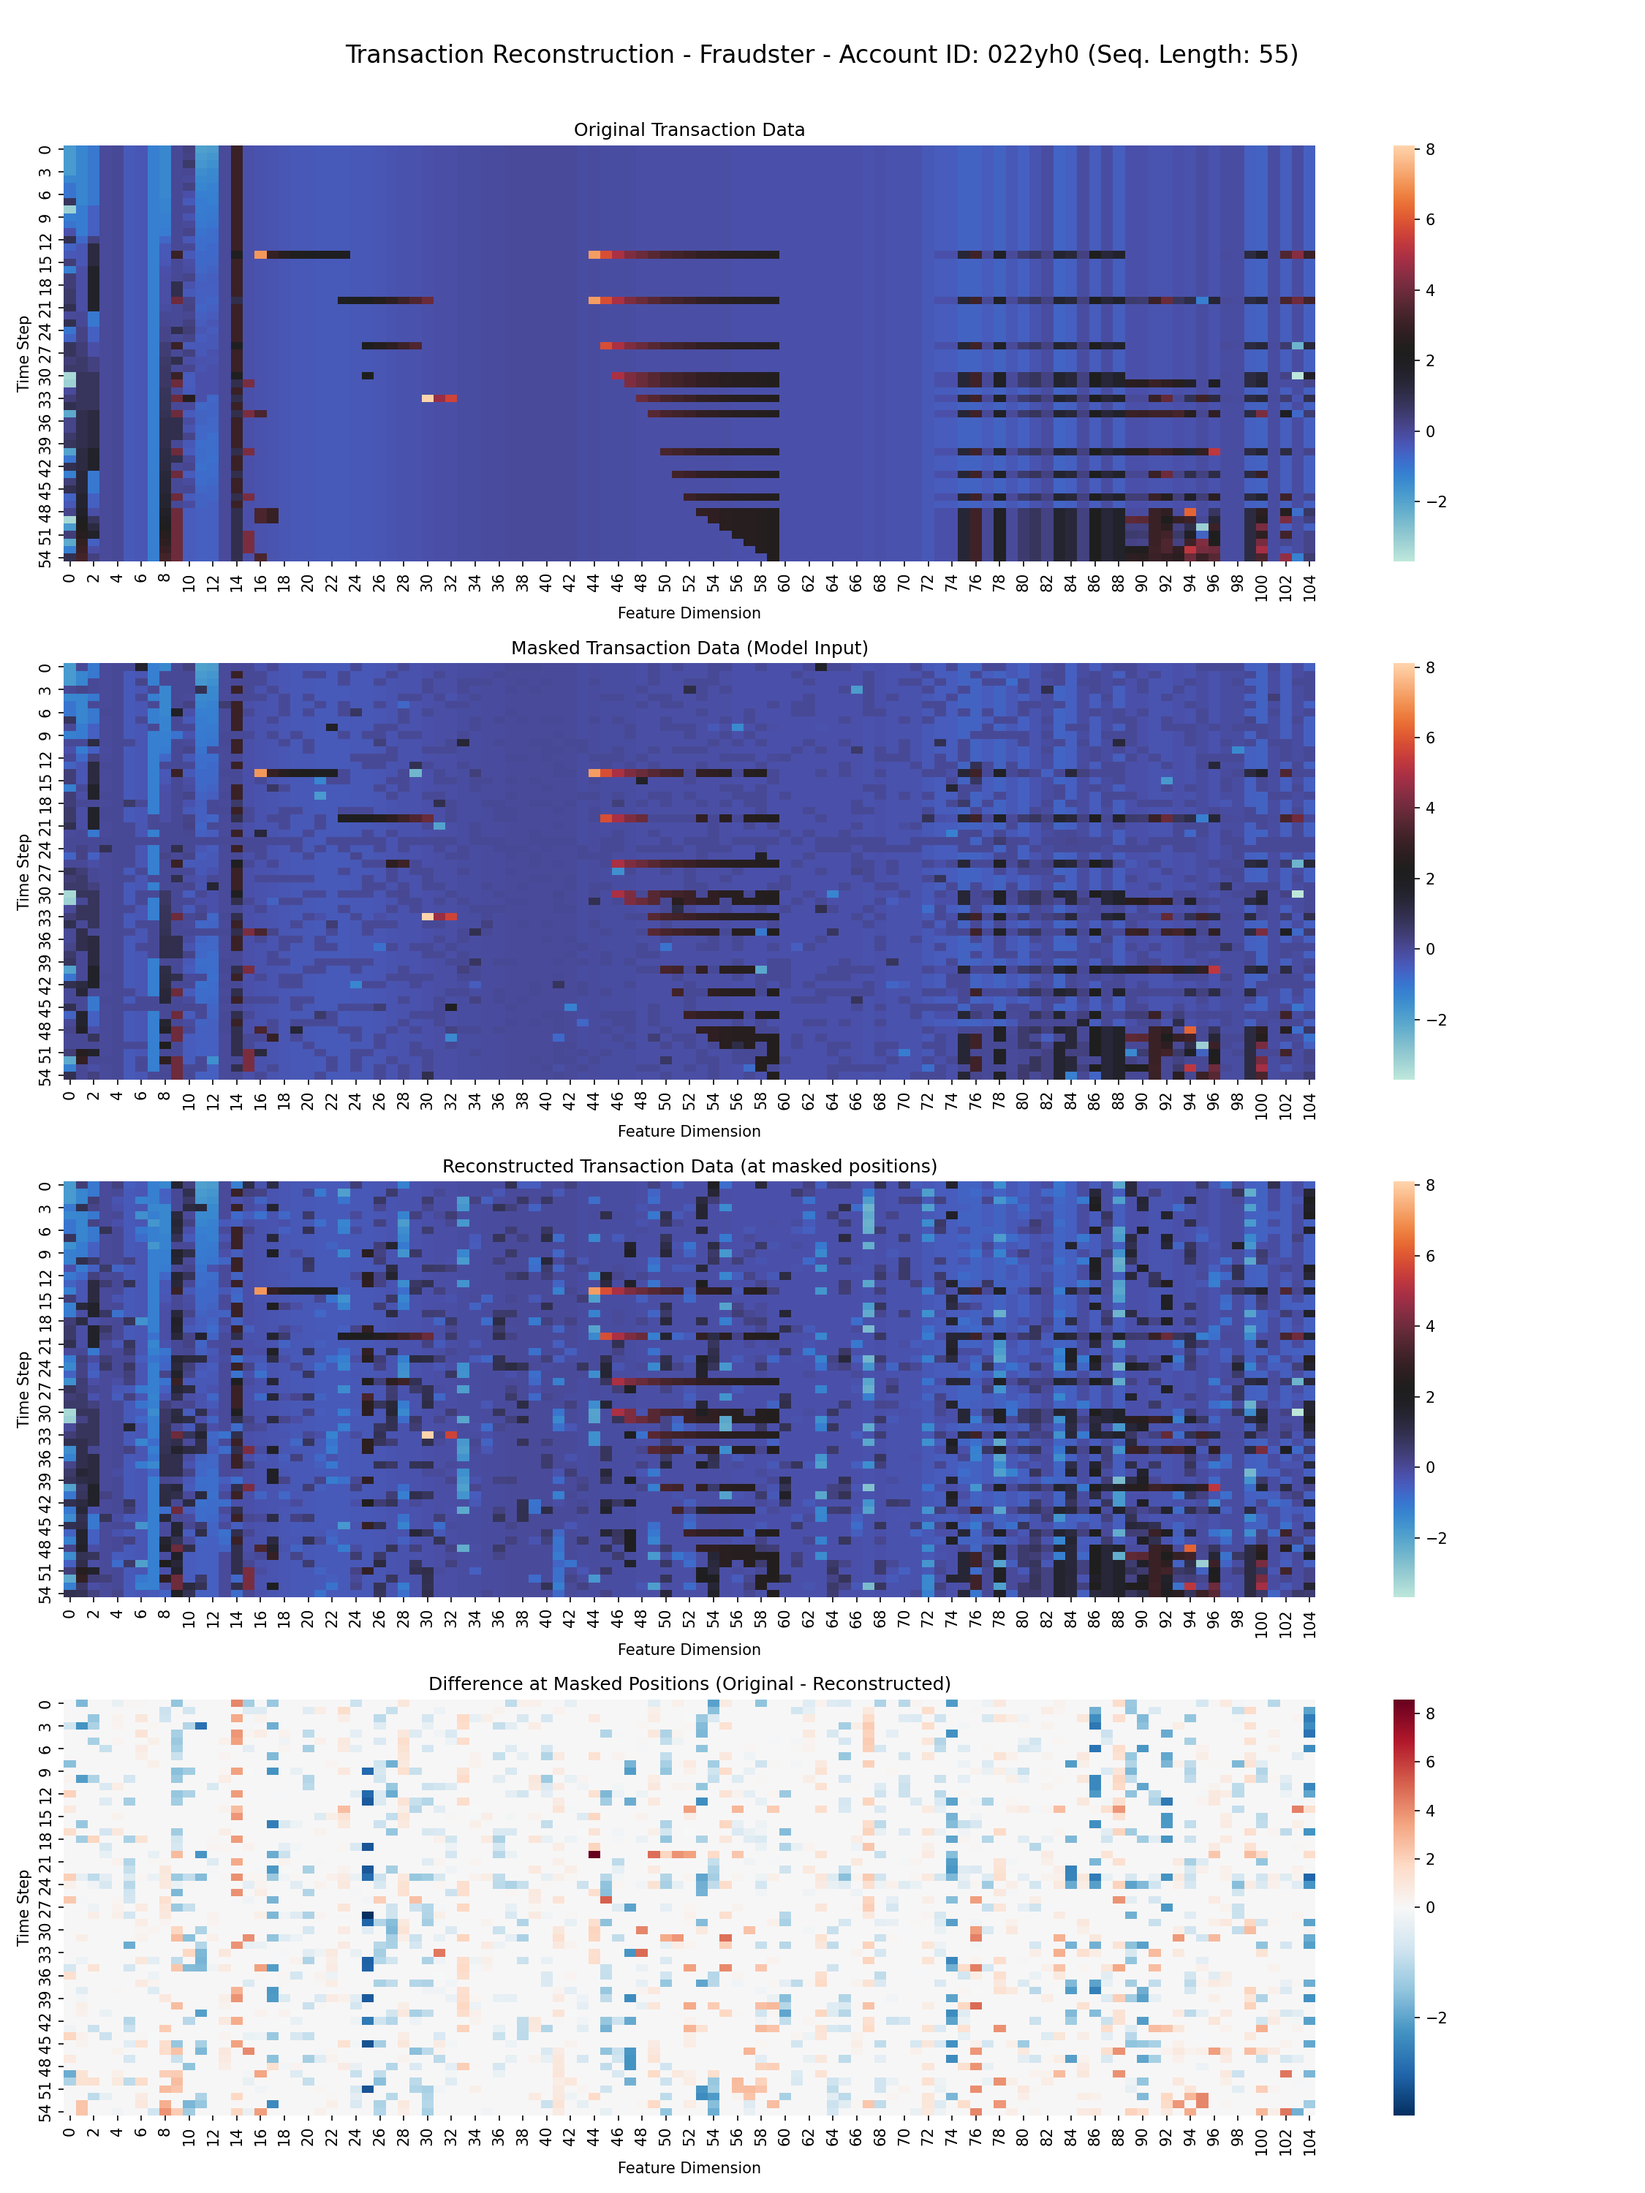
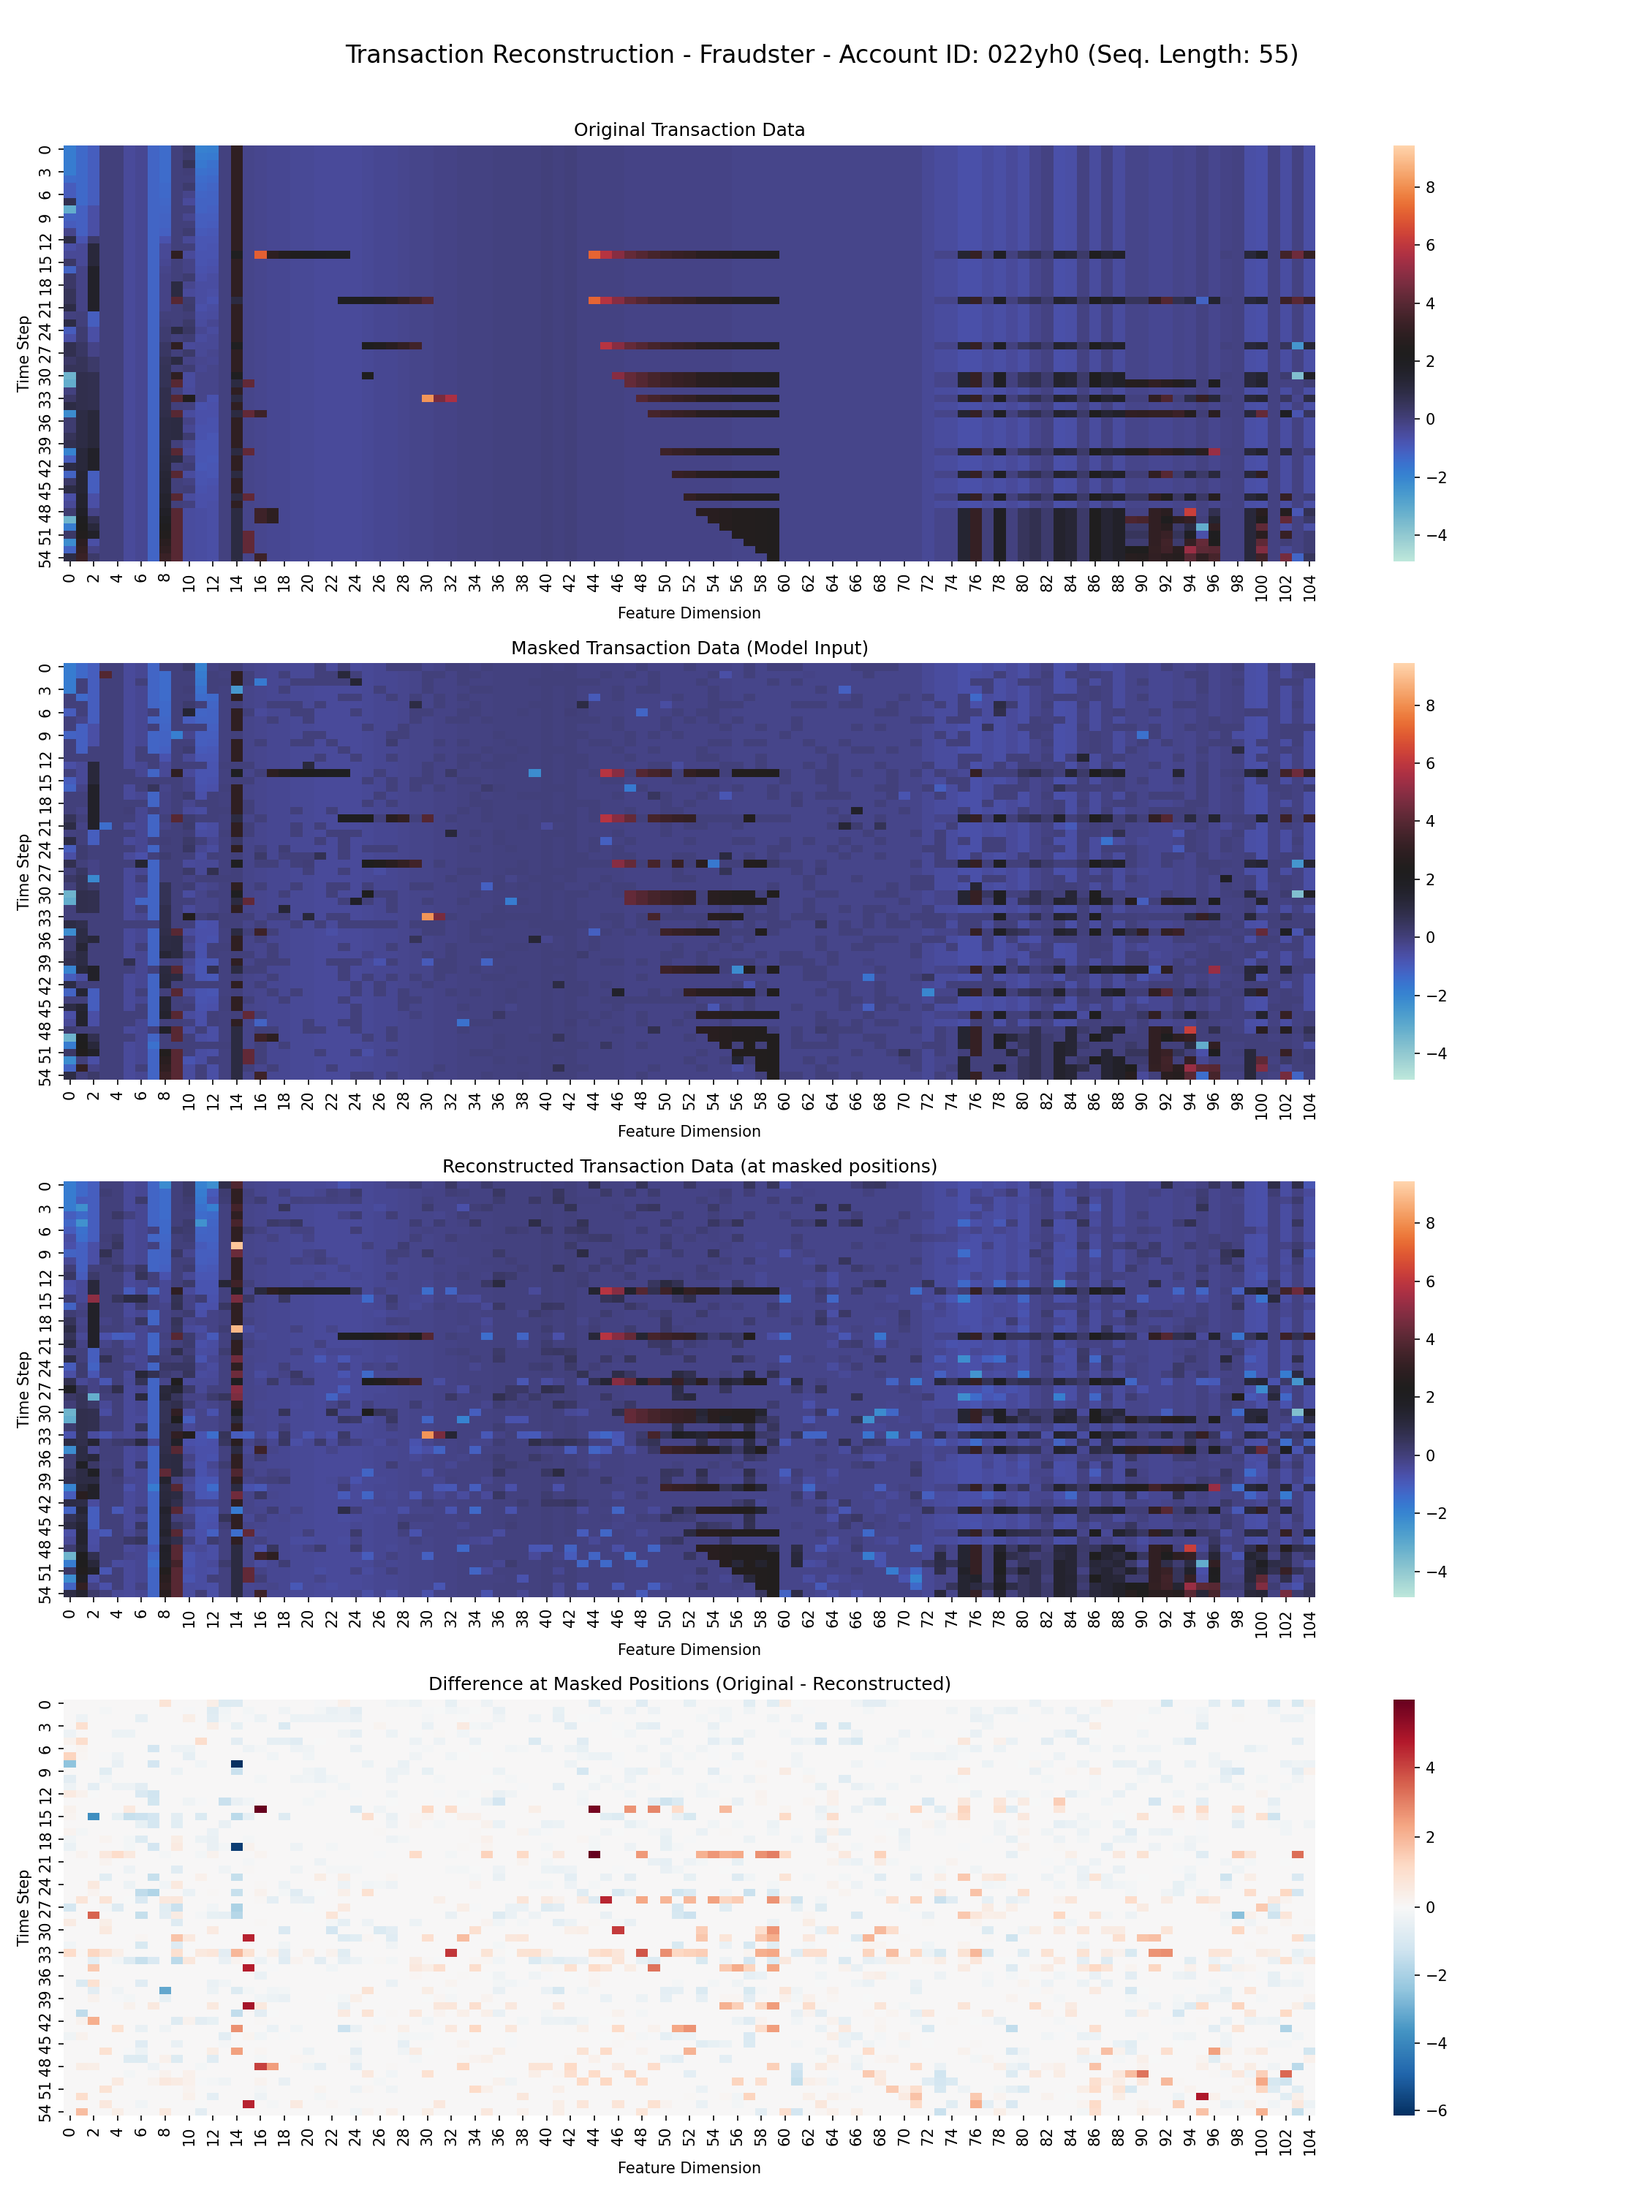
wip and switched to mixed train / val sets

diff --git a/models/features/ssl/train_bert_mlm.py b/models/features/ssl/train_bert_mlm.py
@@ -2,12 +2,14 @@ import os
 import click
 import torch
 import pytorch_lightning as pl
-from torch.utils.data import DataLoader
+from torch.utils.data import DataLoader, Subset
 from pytorch_lightning.callbacks import ModelCheckpoint, EarlyStopping
 from pytorch_lightning.loggers import TensorBoardLogger
+from sklearn.model_selection import train_test_split
+import numpy as np
 
 from bert import TransactionBERTModel
-from dataloader import prepare_dataset, load_train_test, load_val
+from dataloader import prepare_dataset, load_all
 
 
 @click.command()
@@ -18,22 +20,24 @@ from dataloader import prepare_dataset, load_train_test, load_val
 @click.option("--output_dir", default="./saved_models/transaction_bert", type=str, help="Output directory for models")
 
 # Training parameters
+# while a larger batch size like 48 would fit, it for some reason just takes ages in training. i'm assuming it fits in vram, but the optimizations for a smaller set are better
 @click.option("--batch_size", default=24, type=int, help="Batch size for training")
 @click.option("--num_train_epochs", default=15, type=int, help="Number of training epochs")
+@click.option("--val_every_epoch", default=3, type=int, help="Number of training epochs after which to run validation")
 @click.option("--gradient_accumulation_steps", default=1, type=int, help="Gradient accumulation steps")
 @click.option("--fp16", is_flag=True, help="Use 16-bit precision")
 
-@click.option("--out_name", default="final-model.pt", type=str, help="Name of the final model file")
+@click.option("--out_name", default="final-model.ckpt", type=str, help="Name of the final model file")
 @click.option("--continue_from_checkpoint", default=None, type=str, help="Path to a checkpoint to continue training")
 @click.option("--fine_tune_ffn", is_flag=True, default=False, help="Fine-tune the feed-forward network")
 
 # Other parameters
 @click.option("--seed", default=42, type=int, help="Random seed")
-@click.option("--num_workers", default=5, type=int, help="Number of workers for data loading")
+@click.option("--num_workers", default=4, type=int, help="Number of workers for data loading")
 @click.option("--patience", default=3, type=int, help="Early stopping patience")
 @click.option("--dry_run", is_flag=True, help="Perform a dry run (setup but no training)")
 
-def main(data_version, output_dir, batch_size, num_train_epochs,
+def main(data_version, output_dir, batch_size, num_train_epochs, val_every_epoch,
          gradient_accumulation_steps, fp16, out_name, continue_from_checkpoint, fine_tune_ffn, seed, num_workers, patience, dry_run):
     
     # Create output directory if it doesn't exist
@@ -45,13 +49,29 @@ def main(data_version, output_dir, batch_size, num_train_epochs,
     
     # Prepare datasets
     print("Loading and preparing datasets...")
-    # train_dataset, val_dataset = prepare_datasets(data_version)
-    # train_dataset, val_dataset, test_dataset = prepare_datasets(data_version)
-    train_dataset = prepare_dataset(data_version, load_train_test)
-    val_dataset = prepare_dataset(data_version, load_val)
+    dataset = prepare_dataset(data_version, load_all)
+    
+    # Get all labels to create a stratified split
+    all_labels = dataset.get_fraud_labels_idx()
+    
+    # Create stratified train/validation indices
+    indices = np.arange(len(dataset))
+    train_indices, val_indices = train_test_split(
+        indices, 
+        test_size=0.2,  # 20% for validation
+        random_state=seed,
+        stratify=all_labels  # This ensures the split preserves the class distribution
+    )
+    
+    # Create Subset objects
+    train_dataset = Subset(dataset, train_indices)
+    val_dataset = Subset(dataset, val_indices)
+    
+    print(f"Dataset split: {len(train_dataset)} training samples, {len(val_dataset)} validation samples")
+    print(f"Stratified by fraudster class to maintain class distribution in both sets")
     
     # Get feature dimension from dataset
-    feature_dim = train_dataset.feature_dim
+    feature_dim = dataset.feature_dim
     print(f"Feature dimension: {feature_dim}")
     
     # Create data loaders
@@ -61,7 +81,8 @@ def main(data_version, output_dir, batch_size, num_train_epochs,
         batch_size=batch_size,
         shuffle=True,
         num_workers=num_workers,
-        pin_memory=True
+        pin_memory=True,
+        drop_last=True
     )
     
     val_loader = DataLoader(
@@ -69,7 +90,8 @@ def main(data_version, output_dir, batch_size, num_train_epochs,
         batch_size=batch_size,
         shuffle=False,
         num_workers=num_workers,
-        pin_memory=True
+        pin_memory=True,
+        drop_last=True
     )
     
     # Initialize model
@@ -78,6 +100,16 @@ def main(data_version, output_dir, batch_size, num_train_epochs,
         feature_dim=feature_dim,
         fine_tune_ffn=fine_tune_ffn
     )
+    
+    # Apply torch.compile if available (PyTorch 2.0+)
+    # This is the preferred way to compile models in Lightning
+    if hasattr(torch, 'compile'):
+        try:
+            print("Compiling model with torch.compile()...")
+            model = torch.compile(model, mode="reduce-overhead")
+            print("Model compiled successfully")
+        except Exception as e:
+            print(f"Model compilation failed: {e}. Training with uncompiled model.")
     
     # Setup checkpointing
     checkpoint_callback = ModelCheckpoint(
@@ -112,7 +144,7 @@ def main(data_version, output_dir, batch_size, num_train_epochs,
         precision='16-mixed',
         accumulate_grad_batches=gradient_accumulation_steps,
         fast_dev_run=dry_run,
-        check_val_every_n_epoch=5,
+        check_val_every_n_epoch=val_every_epoch,
         benchmark=True,  # Optimize CUDA operations
     )
     
@@ -121,11 +153,11 @@ def main(data_version, output_dir, batch_size, num_train_epochs,
     torch.set_float32_matmul_precision('high')
     trainer.fit(model, train_loader, val_loader, **({'ckpt_path': continue_from_checkpoint} if continue_from_checkpoint else {}))
     
-    # Save the final model
+    # Save the final model using Lightning instead of just the state dict
     final_model_path = os.path.join(output_dir, out_name)
     if os.path.exists(final_model_path):
         os.remove(final_model_path)
-    torch.save(model.state_dict(), final_model_path)
+    trainer.save_checkpoint(final_model_path)
     
     print(f"Training completed. Final model saved to {final_model_path}")
     

diff --git a/models/features/ssl/visualize_reconstructions.py b/models/features/ssl/visualize_reconstructions.py
@@ -48,13 +48,13 @@ def main(model_path, data_version, output_dir, seed):
     
     # Get 2 fraud accounts (or as many as available)
     if fraud_account_ids:
-        selected_fraud = random.sample(fraud_account_ids, min(2, len(fraud_account_ids)))
+        selected_fraud = random.sample(fraud_account_ids, min(4, len(fraud_account_ids)))
         selected_account_ids.extend(selected_fraud)
         fraud_status.extend([True] * len(selected_fraud))
     
     # Get 2 non-fraud accounts (or as many as available)
     if non_fraud_account_ids:
-        selected_non_fraud = random.sample(non_fraud_account_ids, min(2, len(non_fraud_account_ids)))
+        selected_non_fraud = random.sample(non_fraud_account_ids, min(4, len(non_fraud_account_ids)))
         selected_account_ids.extend(selected_non_fraud)
         fraud_status.extend([False] * len(selected_non_fraud))
     
@@ -66,20 +66,14 @@ def main(model_path, data_version, output_dir, seed):
     device = torch.device("cuda" if torch.cuda.is_available() else "cpu")
     feature_dim = val_dataset.feature_dim
     
-    model = TransactionBERTModel(feature_dim=feature_dim)
+    # Use Lightning's load_from_checkpoint method to load the model
+    model = TransactionBERTModel.load_from_checkpoint(
+        checkpoint_path=model_path,
+        feature_dim=feature_dim,
+        map_location=device
+    )
     
-    # Load state dict from checkpoint file
-    if model_path.endswith('.ckpt'):
-        # Lightning checkpoint
-        checkpoint = torch.load(model_path, map_location=device)
-        state_dict = checkpoint['state_dict']
-    else:
-        # Regular PyTorch checkpoint
-        state_dict = torch.load(model_path, map_location=device)
-    
-    # Load the state dict directly without fixing prefixes
-    # The model was created without compilation, so keys should match
-    model.load_state_dict(state_dict)
+    # No compilation needed for visualization
     model.to(device)
     model.eval()
     
@@ -191,5 +185,5 @@ def main(model_path, data_version, output_dir, seed):
 
 if __name__ == "__main__":
     # Example usage:
-    # python3 visualize_reconstructions.py --model_path ./saved_models/transaction_bert/final-model.pt
+    # python3 visualize_reconstructions.py --model_path ./saved_models/transaction_bert/final-model.ckpt
     main()

diff --git a/models/features/ssl/bert.py b/models/features/ssl/bert.py
@@ -111,17 +111,6 @@ class TransactionBERTModel(pl.LightningModule):
             dropout=dropout
         )
         
-        # Apply torch.compile if available and requested
-        if hasattr(torch, 'compile'):
-            try:
-                print("Compiling projection modules with torch.compile...")
-                self.input_projection = torch.compile(self.input_projection)
-                self.output_projection = torch.compile(self.output_projection)
-                self.bert = torch.compile(self.bert)
-                print("Compilation successful")
-            except Exception as e:
-                print(f"Failed to compile modules: {e}. Continuing with uncompiled versions.")
-        
     def forward(self, masked_seqs, masked_pos):
         """
         Forward pass for the model.
@@ -194,7 +183,11 @@ class TransactionBERTModel(pl.LightningModule):
         return loss
     
     def on_fit_start(self):
-        """Print parameter statistics at the beginning of training."""
+        """
+        Called at the beginning of training.
+        Compile the model here instead of in __init__ to ensure state_dict compatibility
+        """
+        # Print parameter statistics
         trainable_params = sum(p.numel() for p in self.parameters() if p.requires_grad)
         total_params = sum(p.numel() for p in self.parameters())
         print(f"Trainable parameters: {trainable_params:,} ({trainable_params/total_params:.2%} of total)")

diff --git a/models/features/ssl/dataloader.py b/models/features/ssl/dataloader.py
@@ -18,7 +18,7 @@ class AccountTransactionDataset(Dataset):
                  features_df: pd.DataFrame, 
                  labels_df: pd.DataFrame, 
                  feature_cols: Optional[List[str]] = None,
-                 max_seq_len: Optional[int] = None,
+                 max_seq_len: Optional[int] = 2048,
                  normalize=True,
                  mask=True):
         """
@@ -51,6 +51,7 @@ class AccountTransactionDataset(Dataset):
         assert "Fraudster" in labels_df.columns, "Labels DataFrame must have Fraudster column"
         
         # Create account to label mapping
+        self.fraud_bools = labels_df['Fraudster'].values 
         self.account_to_label = labels_df.set_index('AccountID')['Fraudster'].to_dict()
         
         # Determine feature columns
@@ -88,6 +89,9 @@ class AccountTransactionDataset(Dataset):
     
     def get_shape(self):
         return self.max_seq_len, self.feature_dim
+    
+    def get_fraud_labels_idx(self):
+        return self.fraud_bools
 
     def __len__(self) -> int:
         """Return the number of accounts."""
@@ -112,7 +116,6 @@ class AccountTransactionDataset(Dataset):
         features = account_transactions[self.feature_cols].values
         seq_len = features.shape[0]
 
-        
         # Create pre-padded tensor
         padded_features = torch.zeros((self.max_seq_len, self.feature_dim), dtype=torch.float32)
 
